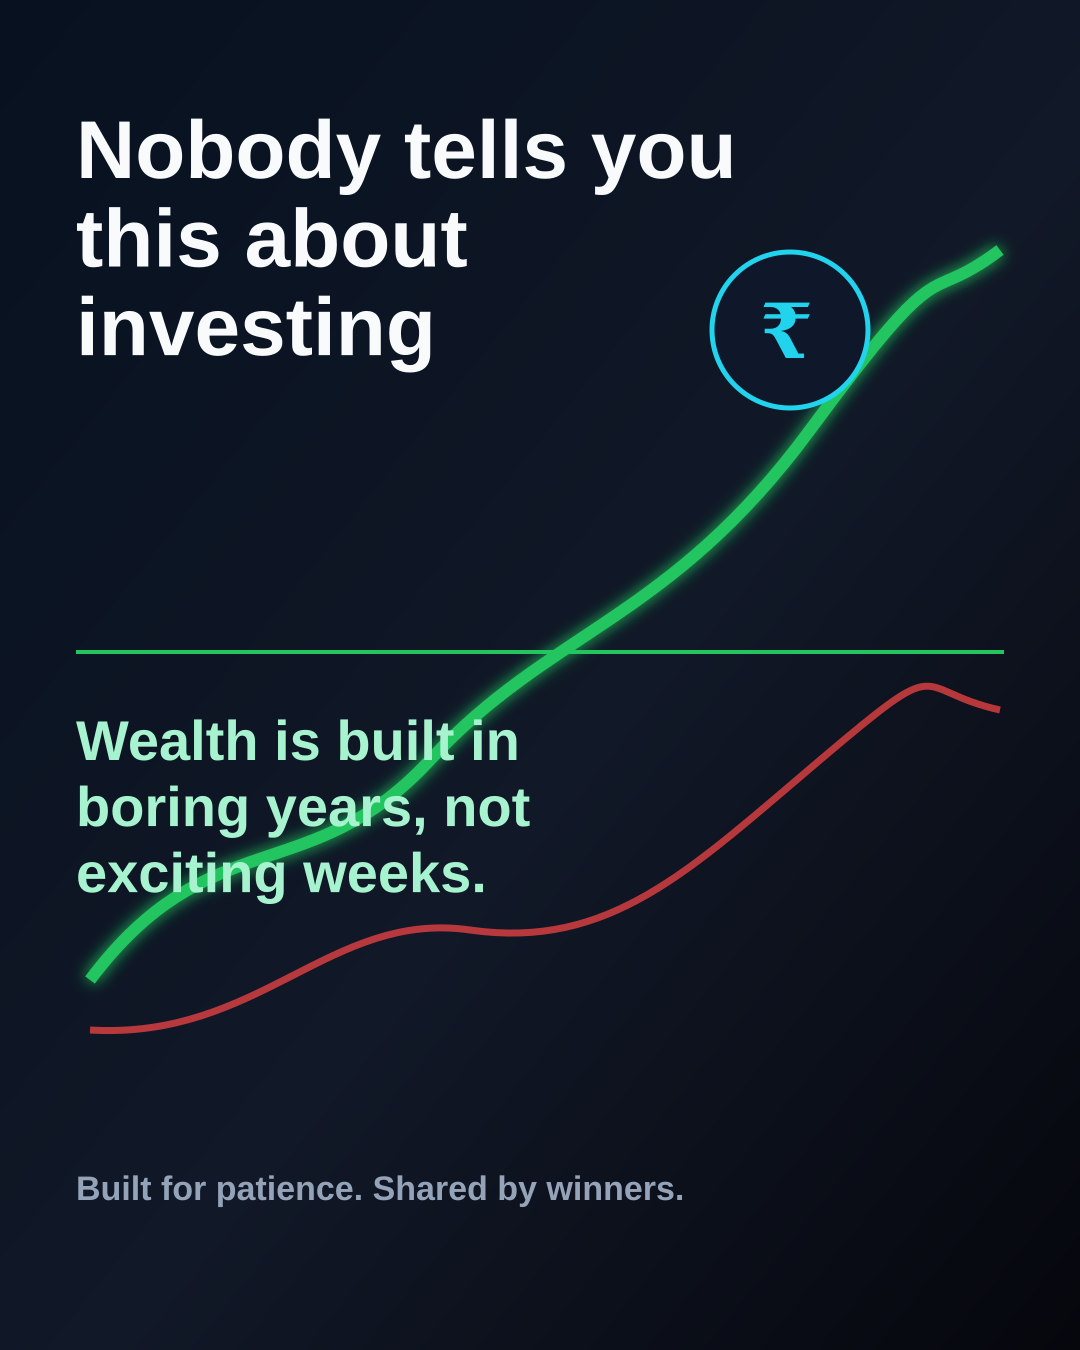
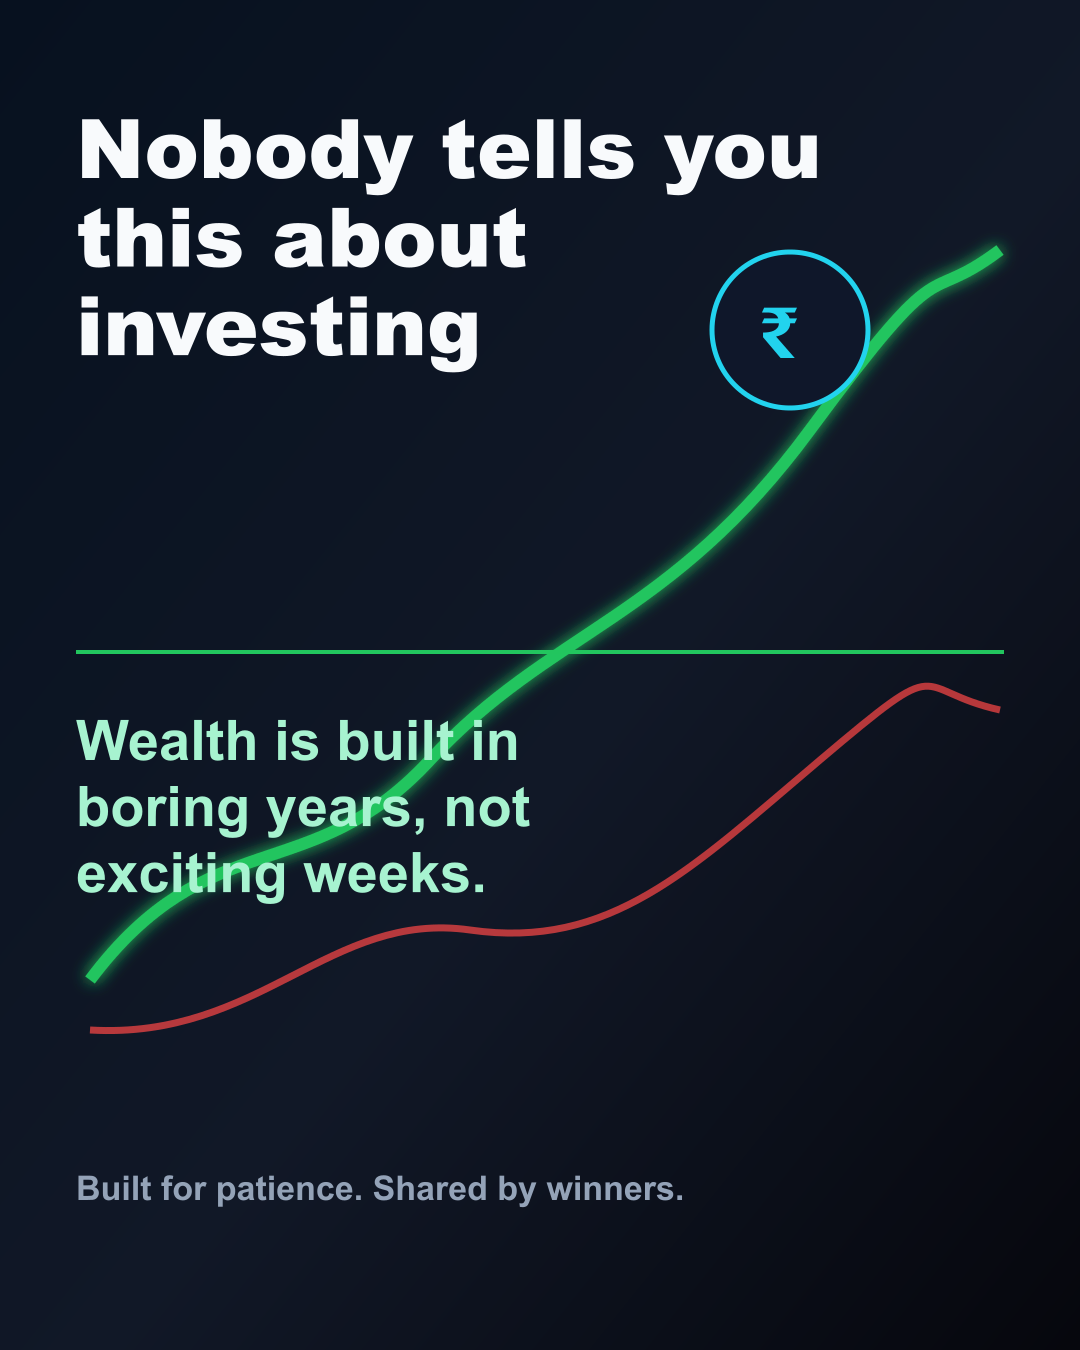
Add contextual replies and avoid duplicate Buffer posts

diff --git a/src/content/contextReply.js b/src/content/contextReply.js
@@ -1,0 +1,116 @@
+function normalize(text) {
+  return String(text || "")
+    .replace(/https?:\/\/\S+/g, "")
+    .replace(/\s+/g, " ")
+    .trim();
+}
+
+function includesAny(text, words) {
+  const lower = text.toLowerCase();
+  return words.some((word) => lower.includes(word));
+}
+
+function detectLane(post) {
+  if (includesAny(post, ["iran", "israel", "russia", "ukraine", "war", "sanction", "red sea", "hormuz", "middle east"])) {
+    return "geopolitics";
+  }
+
+  if (includesAny(post, ["oil", "crude", "brent", "gold", "dollar", "rupee", "inflation", "fed", "rate", "yield"])) {
+    return "macro";
+  }
+
+  if (includesAny(post, ["nifty", "sensex", "stock", "market", "earnings", "valuation", "fii", "dii", "portfolio"])) {
+    return "markets";
+  }
+
+  if (includesAny(post, ["sip", "mutual fund", "compounding", "long term", "investing", "wealth", "patience"])) {
+    return "investing";
+  }
+
+  if (includesAny(post, ["salary", "saving", "debt", "credit card", "loan", "emi", "spending", "income"])) {
+    return "personalFinance";
+  }
+
+  return "general";
+}
+
+function topic(post) {
+  const lower = post.toLowerCase();
+  const topics = [
+    ["Strait of Hormuz", ["hormuz"]],
+    ["crude oil", ["oil", "crude", "brent"]],
+    ["gold", ["gold"]],
+    ["the rupee", ["rupee", "inr", "usd/inr"]],
+    ["inflation", ["inflation", "cpi"]],
+    ["US rates", ["fed", "rate", "yield"]],
+    ["China trade", ["china", "tariff", "trade war"]],
+    ["Nifty", ["nifty"]],
+    ["retail investors", ["retail", "investor"]],
+    ["SIPs", ["sip"]],
+    ["debt", ["debt", "loan", "emi", "credit card"]]
+  ];
+
+  for (const [label, keys] of topics) {
+    if (keys.some((key) => lower.includes(key))) return label;
+  }
+
+  const words = post
+    .replace(/[^a-zA-Z0-9₹$% ]/g, "")
+    .split(/\s+/)
+    .filter((word) => word.length > 4);
+
+  return words.slice(0, 2).join(" ") || "this";
+}
+
+function keepShort(lines) {
+  return lines
+    .map((line) => line.replace(/\s+/g, " ").trim())
+    .filter(Boolean)
+    .join("\n")
+    .slice(0, 275);
+}
+
+export function buildContextReplies(rawPost) {
+  const post = normalize(rawPost);
+  const lane = detectLane(post);
+  const keyTopic = topic(post);
+
+  const byLane = {
+    geopolitics: [
+      keepShort([`The market angle is ${keyTopic}, not the headline.`, "Oil, shipping insurance and INR usually react before retail investors connect the dots."]),
+      keepShort([`If ${keyTopic} escalates, India feels it through crude first.`, "That quietly hits inflation, margins and rate-cut hopes."]),
+      keepShort(["Most people read this as politics.", `Markets read it as a supply-chain and commodity-risk signal.`])
+    ],
+    macro: [
+      keepShort([`The key variable here is ${keyTopic}.`, "If it keeps moving, the second-order impact shows up in inflation, INR and sector margins."]),
+      keepShort(["This is bigger than a one-day market move.", `${keyTopic} can change earnings assumptions before earnings actually change.`]),
+      keepShort(["The headline tells you what happened.", `The trade is in what ${keyTopic} does next.`])
+    ],
+    markets: [
+      keepShort([`The real question is not whether ${keyTopic} moved today.`, "It is whether the reason changes earnings, rates or liquidity."]),
+      keepShort(["Price is the loud part.", "The quiet part is whether FIIs, rates and earnings start agreeing with it."]),
+      keepShort(["A move without a reason fades fast.", `A move backed by liquidity and earnings can become a trend.`])
+    ],
+    investing: [
+      keepShort(["True, but the hard part is not knowing this.", "The hard part is behaving this way during a 20% drawdown."]),
+      keepShort([`This is why ${keyTopic} works only for people who can stay boring.`, "Most investors want compounding but hate the waiting room."]),
+      keepShort(["The underrated edge is emotional stamina.", "Without it, even a good portfolio becomes a bad decision machine."])
+    ],
+    personalFinance: [
+      keepShort(["The hidden point: money habits scale with income.", "If behavior is broken at 50k, it usually breaks harder at 5L."]),
+      keepShort([`This is less about ${keyTopic} and more about control.`, "Freedom starts when your lifestyle stops chasing every raise."]),
+      keepShort(["Most people optimize returns too early.", "First fix cashflow, debt and impulse spending. Then investing works better."])
+    ],
+    general: [
+      keepShort(["The missing angle is the second-order effect.", "Who benefits, who pays, and what changes if this lasts 6 months?"]),
+      keepShort(["The headline is useful.", "But the money is made by asking what this changes next."]),
+      keepShort(["Most people stop at the news.", "Investors should map the chain reaction."])
+    ]
+  };
+
+  return {
+    lane,
+    topic: keyTopic,
+    replies: byLane[lane]
+  };
+}

diff --git a/src/buffer/post.js b/src/buffer/post.js
@@ -56,8 +56,26 @@ export async function postToBuffer(parts, imagePath) {
     }
   `;
 
-  const data = await bufferRequest(query, variables);
+  let data;
+  try {
+    data = await bufferRequest(query, variables);
+  } catch (error) {
+    if (!String(error.message).toLowerCase().includes("posted that one recently")) {
+      throw error;
+    }
+
+    variables.text = `${variables.text}\n\nFresh angle: ${new Date().toISOString().slice(11, 16)} UTC`;
+    data = await bufferRequest(query, variables);
+  }
   const result = data.createPost;
+
+  if (result.message && String(result.message).toLowerCase().includes("posted that one recently")) {
+    variables.text = `${variables.text}\n\nFresh angle: ${new Date().toISOString().slice(11, 16)} UTC`;
+    const retryData = await bufferRequest(query, variables);
+    const retryResult = retryData.createPost;
+    if (retryResult.message) throw new Error(`Buffer rejected post: ${retryResult.message}`);
+    return { ...retryResult.post, imageUrl };
+  }
 
   if (result.message) {
     throw new Error(`Buffer rejected post: ${result.message}`);

diff --git a/src/test/generateContextReplies.js b/src/test/generateContextReplies.js
@@ -1,0 +1,19 @@
+import { buildContextReplies } from "../content/contextReply.js";
+
+const postText = process.env.TARGET_POST_TEXT || process.argv.slice(2).join(" ");
+
+if (!postText.trim()) {
+  throw new Error("No post text found. Copy a post to clipboard or pass text to the script.");
+}
+
+const result = buildContextReplies(postText);
+
+console.log("\nTARGET POST");
+console.log(postText.trim());
+console.log(`\nDetected lane: ${result.lane}`);
+console.log(`Detected topic: ${result.topic}`);
+console.log("\nCONTEXTUAL REPLIES");
+
+result.replies.forEach((reply, index) => {
+  console.log(`\n${index + 1}. ${reply}`);
+});

diff --git a/src/content/morning.js b/src/content/morning.js
@@ -1,4 +1,4 @@
-import { pickDaily } from "../utils/date.js";
+import { pickDaily, pickRun } from "../utils/date.js";
 
 const hooks = [
   "Nobody tells you this about investing:",
@@ -24,6 +24,14 @@ const explanations = [
   "Your behavior compounds before your money does."
 ];
 
+const closers = [
+  "Save this before the next red day.",
+  "Your future self will thank your boring self.",
+  "The boring investor usually beats the busy one.",
+  "Do less. Hold better. Think longer.",
+  "Patience is a position too."
+];
+
 const hashtagSets = [
   ["#Investing", "#StockMarket", "#PersonalFinance", "#WealthCreation", "#MoneyMindset", "#LongTermInvesting"],
   ["#InvestingTips", "#FinancialFreedom", "#StockMarketIndia", "#Compounding", "#MutualFunds", "#Wealth"],
@@ -32,10 +40,11 @@ const hashtagSets = [
 
 export function buildMorningPost() {
   const hook = pickDaily(hooks, "morning-hook");
-  const insight = pickDaily(insights, "morning-insight");
-  const explanation = pickDaily(explanations, "morning-explanation");
+  const insight = pickRun(insights, "morning-insight");
+  const explanation = pickRun(explanations, "morning-explanation");
+  const closer = pickRun(closers, "morning-closer");
   const hashtags = pickDaily(hashtagSets, "morning-hashtags");
-  const post = `${hook}\n\n"${insight}"\n\n${explanation}`;
+  const post = `${hook}\n\n"${insight}"\n\n${explanation}\n\n${closer}`;
 
   return {
     slot: "morning",

diff --git a/src/utils/date.js b/src/utils/date.js
@@ -22,3 +22,10 @@ export function pickDaily(items, salt = "") {
   const total = [...key].reduce((sum, char) => sum + char.charCodeAt(0), 0);
   return items[total % items.length];
 }
+
+export function pickRun(items, salt = "") {
+  const bucket = Math.floor(Date.now() / (1000 * 60 * 15));
+  const key = `${istDateKey()}-${bucket}-${salt}`;
+  const total = [...key].reduce((sum, char) => sum + char.charCodeAt(0), 0);
+  return items[total % items.length];
+}

diff --git a/README.md b/README.md
@@ -85,6 +85,19 @@ Generate the daily high-visibility reply plan:
 .\scripts\reply-plan.ps1
 ```
 
+Generate replies based on a specific X post:
+
+```powershell
+# Copy the X post text first, then run:
+.\scripts\reply-to-post.ps1
+```
+
+Or pass the post text directly:
+
+```powershell
+.\scripts\reply-to-post.ps1 "Oil jumps after fresh Middle East tensions..."
+```
+
 Post manually:
 
 ```bash